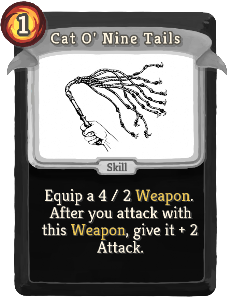
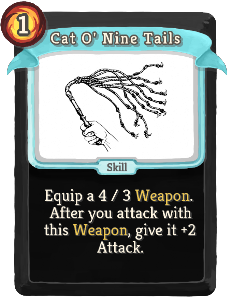
v.1.5.7 - Slight Weapon changes.

Changed region(s): [[0.0303, 0.0906, 1.0, 0.604], [0.1818, 0.7248, 0.8788, 0.8154], [0.5152, 0.6342, 0.8182, 0.6946]]

diff --git a/exported/index.html b/exported/index.html
@@ -73,18 +73,6 @@
     </tr>
 
     <tr>
-        <td>Cat O' Nine Tails</td>
-        <td><a href="card-images/CatONineTails.png"><img src="small-card-images/CatONineTails.png" height="298"></a>
-        </td>
-        <td><a href="card-images/CatONineTailsPlus.png"><img src="small-card-images/CatONineTailsPlus.png" height="298"></a>
-        </td>
-        <td>Common</td>
-        <td>Skill</td>
-        <td>1</td>
-        <td>Equip a 4 / 2(3) Weapon. After you attack with this Weapon, give it + 2 Attack.</td>
-    </tr>
-
-    <tr>
         <td>Cloak And Cannonball</td>
         <td><a href="card-images/CloakAndCannonball.png"><img src="small-card-images/CloakAndCannonball.png"
                                                               height="298"></a></td>
@@ -241,7 +229,7 @@
         <td>Skill</td>
         <td>1</td>
         <td>Choose 1 of 3 Swords.
-            Equip a 2(3) / 3 Weapon with an additional effect.
+            Equip a 2(3) / 4 Weapon with an additional effect.
         </td>
     </tr>
 
@@ -407,6 +395,18 @@
         <td>Gain 10(12) Block.
             Add 1(2) Cannonball(s) to your hand.
         </td>
+    </tr>
+
+    <tr>
+        <td>Cat O' Nine Tails</td>
+        <td><a href="card-images/CatONineTails.png"><img src="small-card-images/CatONineTails.png" height="298"></a>
+        </td>
+        <td><a href="card-images/CatONineTailsPlus.png"><img src="small-card-images/CatONineTailsPlus.png" height="298"></a>
+        </td>
+        <td>Uncommon</td>
+        <td>Skill</td>
+        <td>1</td>
+        <td>Equip a 4(6) / 3 Weapon. After you attack with this Weapon, give it +2 Attack.</td>
     </tr>
 
     <tr>

diff --git a/exported/cards.html b/exported/cards.html
@@ -72,18 +72,6 @@
   </tr>
 
     <tr>
-    <td>Cat O' Nine Tails</td>
-        <td><a href="card-images/CatONineTails.png"><img src="small-card-images/CatONineTails.png" height="298"></a>
-        </td>
-        <td><a href="card-images/CatONineTailsPlus.png"><img src="small-card-images/CatONineTailsPlus.png" height="298"></a>
-        </td>
-    <td>Common</td>
-    <td>Skill</td>
-    <td>1</td>
-    <td>Equip a 4 / 2(3) Weapon. After you attack with this Weapon, give it + 2 Attack.</td>
-  </tr>
-
-    <tr>
     <td>Cloak And Cannonball</td>
         <td><a href="card-images/CloakAndCannonball.png"><img src="small-card-images/CloakAndCannonball.png"
                                                               height="298"></a></td>
@@ -240,7 +228,7 @@
     <td>Skill</td>
     <td>1</td>
     <td>Choose 1 of 3 Swords.
-        Equip a 2(3) / 3 Weapon with an additional effect.
+        Equip a 2(3) / 4 Weapon with an additional effect.
     </td>
   </tr>
 
@@ -406,6 +394,18 @@
     <td>Gain 10(12) Block.
         Add 1(2) Cannonball(s) to your hand.
     </td>
+    </tr>
+
+    <tr>
+        <td>Cat O' Nine Tails</td>
+        <td><a href="card-images/CatONineTails.png"><img src="small-card-images/CatONineTails.png" height="298"></a>
+        </td>
+        <td><a href="card-images/CatONineTailsPlus.png"><img src="small-card-images/CatONineTailsPlus.png" height="298"></a>
+        </td>
+        <td>Uncommon</td>
+        <td>Skill</td>
+        <td>1</td>
+        <td>Equip a 4(6) / 3 Weapon. After you attack with this Weapon, give it +2 Attack.</td>
   </tr>
 
     <tr>

diff --git a/src/main/java/blackbeard/cards/CatONineTails.java b/src/main/java/blackbeard/cards/CatONineTails.java
@@ -18,28 +18,28 @@ public class CatONineTails extends CustomCard {
     private static final CardStrings cardStrings = CardCrawlGame.languagePack.getCardStrings(ID);
     private static final int COST = 1;
     private static final int WEAPON_ATTACK = 4;
-    private static final int WEAPON_DURABILITY = 2;
-    private static final int UPGRADED_PLUS_WEAPON_DURABILITY = 1;
+    private static final int WEAPON_DURABILITY = 3;
+    private static final int UPGRADED_PLUS_WEAPON_ATTACK = 2;
     public static final String NAME = cardStrings.NAME;
     public static final String DESCRIPTION = WeaponCardsUtil.getWeaponRawDescription(cardStrings.DESCRIPTION, WEAPON_ATTACK, WEAPON_DURABILITY);
 
     public CatONineTails() {
         super(ID, NAME, TheBlackbeardMod.getCardImagePath(CatONineTails.ID), COST, DESCRIPTION, CardType.SKILL,
-                AbstractCardEnum.BLACKBEARD_BLACK, CardRarity.COMMON, CardTarget.SELF);
+                AbstractCardEnum.BLACKBEARD_BLACK, CardRarity.UNCOMMON, CardTarget.SELF);
 
-        this.baseMagicNumber = this.magicNumber = WEAPON_DURABILITY;
+        this.baseMagicNumber = this.magicNumber = WEAPON_ATTACK;
     }
 
     @Override
     public void use(AbstractPlayer p, AbstractMonster m) {
-        AbstractDungeon.actionManager.addToBottom(new EquipAction(new CatONineTailsOrb(WEAPON_ATTACK, this.magicNumber, false)));
+        AbstractDungeon.actionManager.addToBottom(new EquipAction(new CatONineTailsOrb(this.magicNumber, WEAPON_DURABILITY, false)));
     }
 
     @Override
     public void upgrade() {
         if (!this.upgraded) {
             this.upgradeName();
-            this.upgradeMagicNumber(UPGRADED_PLUS_WEAPON_DURABILITY);
+            this.upgradeMagicNumber(UPGRADED_PLUS_WEAPON_ATTACK);
         }
     }
 }

diff --git a/src/main/java/blackbeard/cards/SwordOfWisdom.java b/src/main/java/blackbeard/cards/SwordOfWisdom.java
@@ -18,7 +18,7 @@ public class SwordOfWisdom extends CustomCard {
     private static final CardStrings cardStrings = CardCrawlGame.languagePack.getCardStrings(ID);
     private static final int COST = 0;
     private static final int WEAPON_ATTACK = 2;
-    private static final int WEAPON_DURABILITY = 3;
+    private static final int WEAPON_DURABILITY = 4;
     private static final int UPGRADED_PLUS_WEAPON_ATTACK = 1;
     public static final String NAME = cardStrings.NAME;
     public static final String DESCRIPTION = WeaponCardsUtil.getWeaponRawDescription(cardStrings.DESCRIPTION, WEAPON_ATTACK, WEAPON_DURABILITY);

diff --git a/src/main/java/blackbeard/cards/SwordOfChaos.java b/src/main/java/blackbeard/cards/SwordOfChaos.java
@@ -18,7 +18,7 @@ public class SwordOfChaos extends CustomCard {
     private static final CardStrings cardStrings = CardCrawlGame.languagePack.getCardStrings(ID);
     private static final int COST = 0;
     private static final int WEAPON_ATTACK = 2;
-    private static final int WEAPON_DURABILITY = 3;
+    private static final int WEAPON_DURABILITY = 4;
     private static final int UPGRADED_PLUS_WEAPON_ATTACK = 1;
     public static final String NAME = cardStrings.NAME;
     public static final String DESCRIPTION = WeaponCardsUtil.getWeaponRawDescription(cardStrings.DESCRIPTION, WEAPON_ATTACK, WEAPON_DURABILITY);

diff --git a/src/main/java/blackbeard/cards/SwordOfFire.java b/src/main/java/blackbeard/cards/SwordOfFire.java
@@ -18,7 +18,7 @@ public class SwordOfFire extends CustomCard {
     private static final CardStrings cardStrings = CardCrawlGame.languagePack.getCardStrings(ID);
     private static final int COST = 0;
     private static final int WEAPON_ATTACK = 2;
-    private static final int WEAPON_DURABILITY = 3;
+    private static final int WEAPON_DURABILITY = 4;
     private static final int UPGRADED_PLUS_WEAPON_ATTACK = 1;
     public static final String NAME = cardStrings.NAME;
     public static final String DESCRIPTION = WeaponCardsUtil.getWeaponRawDescription(cardStrings.DESCRIPTION, WEAPON_ATTACK, WEAPON_DURABILITY);

diff --git a/src/main/java/blackbeard/cards/Sword.java b/src/main/java/blackbeard/cards/Sword.java
@@ -22,7 +22,7 @@ public class Sword extends CustomCard {
     private static final CardStrings cardStrings = CardCrawlGame.languagePack.getCardStrings(ID);
     private static final int COST = 1;
     private static final int WEAPON_ATTACK = 2;
-    private static final int WEAPON_DURABILITY = 3;
+    private static final int WEAPON_DURABILITY = 4;
     private static final int UPGRADED_PLUS_WEAPON_ATTACK = 1;
     public static final String NAME = cardStrings.NAME;
     public static final String DESCRIPTION = WeaponCardsUtil.getWeaponRawDescription(cardStrings.DESCRIPTION, WEAPON_ATTACK, WEAPON_DURABILITY);

diff --git a/exported/cards.md b/exported/cards.md
@@ -5,7 +5,6 @@
 | Strike | ![](small-card-images/Strike.png) | ![](small-card-images/StrikePlus.png) | Basic | Attack | 1 | Deal 6(9) damage. |
 | Beat Up | ![](small-card-images/BeatUp.png) | ![](small-card-images/BeatUpPlus.png) | Common | Attack | 1 | Deal 4(5) damage twice. Apply 1(2) Vulnerable. |
 | Blind Attacks | ![](small-card-images/BlindAttacks.png) | ![](small-card-images/BlindAttacksPlus.png) | Common | Attack | 1 | Deal 3(4) damage to a random enemy 3 times. |
-| Cat O' Nine Tails | ![](small-card-images/CatONineTails.png) | ![](small-card-images/CatONineTailsPlus.png) | Common | Skill | 1 | Equip a 4 / 2(3) Weapon. After you attack with this Weapon, give it + 2 Attack. |
 | Cloak And Cannonball | ![](small-card-images/CloakAndCannonball.png) | ![](small-card-images/CloakAndCannonballPlus.png) | Common | Skill | 1 | Gain 4(7) Block.  Add a Cannonball to your hand. |
 | Dagger | ![](small-card-images/Dagger.png) | ![](small-card-images/DaggerPlus.png) | Common | Skill | 0 | Equip a 2 / 3(4) Weapon. At the start of your turn, 1 Durability from Dagger is used to deal damage equal to its Attack to a random enemy. |
 | Delayed Pain | ![](small-card-images/DelayedPain.png) | ![](small-card-images/DelayedPainPlus.png) | Common | Skill | 1 | Gain 14(18) Block. At the end of your next turn, you take 4 damage. |
@@ -18,7 +17,7 @@
 | Sharpening | ![](small-card-images/Sharpening.png) | ![](small-card-images/SharpeningPlus.png) | Common | Skill | 1 | Give all your equipped Weapons + 2(3) attack. |
 | Shrapnel | ![](small-card-images/Shrapnel.png) | ![](small-card-images/ShrapnelPlus.png) | Common | Attack | 1 | Deal 7(10) damage to ALL enemies. |
 | Spear | ![](small-card-images/Spear.png) | ![](small-card-images/SpearPlus.png) | Common | Skill | 0 | Equip a 7(10) / 1 Weapon. |
-| Sword | ![](small-card-images/Sword.png) | ![](small-card-images/SwordPlus.png) | Common | Skill | 1 | Choose 1 of 3 Swords. Equip a 2(3) / 3 Weapon with an additional effect. |
+| Sword | ![](small-card-images/Sword.png) | ![](small-card-images/SwordPlus.png) | Common | Skill | 1 | Choose 1 of 3 Swords. Equip a 2(3) / 4 Weapon with an additional effect. |
 | Sword Dance | ![](small-card-images/SwordDance.png) | ![](small-card-images/SwordDancePlus.png) | Common | Skill | 1 | This turn, your next 2(3) Attacks use all equipped Weapons. |
 | Tactical Retreat | ![](small-card-images/TacticalRetreat.png) | ![](small-card-images/TacticalRetreatPlus.png) | Common | Skill | 1 | Gain 8(11) Block. Draw 1 more card next turn. |
 | Toast | ![](small-card-images/Toast.png) | ![](small-card-images/ToastPlus.png) | Common | Skill | 0 | Gain 3(4) Resistance. At the start of your next turn, lose 3(4) Resistance. Exhaust. |
@@ -32,6 +31,7 @@
 | Cannon Barrage | ![](small-card-images/CannonBarrage.png) | ![](small-card-images/CannonBarragePlus.png) | Uncommon | Skill | X | Add X (X+1) Cannonballs to your hand. |
 | Cannonball Supply | ![](small-card-images/CannonballSupply.png) | ![](small-card-images/CannonballSupplyPlus.png) | Uncommon | Skill | 2 | Add 3 Cannonballs to your hand. Exhaust. (not Exhaust.) |
 | Captain's Cabin | ![](small-card-images/CaptainsCabin.png) | ![](small-card-images/CaptainsCabinPlus.png) | Uncommon | Skill | 2 | Gain 10(12) Block. Add 1(2) Cannonball(s) to your hand. |
+| Cat O' Nine Tails | ![](small-card-images/CatONineTails.png) | ![](small-card-images/CatONineTailsPlus.png) | Uncommon | Skill | 1 | Equip a 4(6) / 3 Weapon. After you attack with this Weapon, give it +2 Attack. |
 | Chaotic Defend | ![](small-card-images/ChaoticDefend.png) | ![](small-card-images/ChaoticDefendPlus.png) | Uncommon | Skill | 1 | Gain 7(9) Block. Add 1(2) random card(s) to your hand. |
 | Dangerous Blow | ![](small-card-images/DangerousBlow.png) | ![](small-card-images/DangerousBlowPlus.png) | Uncommon | Attack | 1 | Deal 18(22) damage. At the end of your next turn, you take 6 damage. |
 | Double Bottom | ![](small-card-images/DoubleBottom.png) | ![](small-card-images/DoubleBottomPlus.png) | Uncommon | Skill | 2 | Gain 10(13) Block. Next turn gain 10(13) Block. |

diff --git a/exported/index.md b/exported/index.md
@@ -8,7 +8,6 @@
 | Strike | ![](small-card-images/Strike.png) | ![](small-card-images/StrikePlus.png) | Basic | Attack | 1 | Deal 6(9) damage. |
 | Beat Up | ![](small-card-images/BeatUp.png) | ![](small-card-images/BeatUpPlus.png) | Common | Attack | 1 | Deal 4(5) damage twice. Apply 1(2) Vulnerable. |
 | Blind Attacks | ![](small-card-images/BlindAttacks.png) | ![](small-card-images/BlindAttacksPlus.png) | Common | Attack | 1 | Deal 3(4) damage to a random enemy 3 times. |
-| Cat O' Nine Tails | ![](small-card-images/CatONineTails.png) | ![](small-card-images/CatONineTailsPlus.png) | Common | Skill | 1 | Equip a 4 / 2(3) Weapon. After you attack with this Weapon, give it + 2 Attack. |
 | Cloak And Cannonball | ![](small-card-images/CloakAndCannonball.png) | ![](small-card-images/CloakAndCannonballPlus.png) | Common | Skill | 1 | Gain 4(7) Block.  Add a Cannonball to your hand. |
 | Dagger | ![](small-card-images/Dagger.png) | ![](small-card-images/DaggerPlus.png) | Common | Skill | 0 | Equip a 2 / 3(4) Weapon. At the start of your turn, 1 Durability from Dagger is used to deal damage equal to its Attack to a random enemy. |
 | Delayed Pain | ![](small-card-images/DelayedPain.png) | ![](small-card-images/DelayedPainPlus.png) | Common | Skill | 1 | Gain 14(18) Block. At the end of your next turn, you take 4 damage. |
@@ -21,7 +20,7 @@
 | Sharpening | ![](small-card-images/Sharpening.png) | ![](small-card-images/SharpeningPlus.png) | Common | Skill | 1 | Give all your equipped Weapons + 2(3) attack. |
 | Shrapnel | ![](small-card-images/Shrapnel.png) | ![](small-card-images/ShrapnelPlus.png) | Common | Attack | 1 | Deal 7(10) damage to ALL enemies. |
 | Spear | ![](small-card-images/Spear.png) | ![](small-card-images/SpearPlus.png) | Common | Skill | 0 | Equip a 7(10) / 1 Weapon. |
-| Sword | ![](small-card-images/Sword.png) | ![](small-card-images/SwordPlus.png) | Common | Skill | 1 | Choose 1 of 3 Swords. Equip a 2(3) / 3 Weapon with an additional effect. |
+| Sword | ![](small-card-images/Sword.png) | ![](small-card-images/SwordPlus.png) | Common | Skill | 1 | Choose 1 of 3 Swords. Equip a 2(3) / 4 Weapon with an additional effect. |
 | Sword Dance | ![](small-card-images/SwordDance.png) | ![](small-card-images/SwordDancePlus.png) | Common | Skill | 1 | This turn, your next 2(3) Attacks use all equipped Weapons. |
 | Tactical Retreat | ![](small-card-images/TacticalRetreat.png) | ![](small-card-images/TacticalRetreatPlus.png) | Common | Skill | 1 | Gain 8(11) Block. Draw 1 more card next turn. |
 | Toast | ![](small-card-images/Toast.png) | ![](small-card-images/ToastPlus.png) | Common | Skill | 0 | Gain 3(4) Resistance. At the start of your next turn, lose 3(4) Resistance. Exhaust. |
@@ -35,6 +34,7 @@
 | Cannon Barrage | ![](small-card-images/CannonBarrage.png) | ![](small-card-images/CannonBarragePlus.png) | Uncommon | Skill | X | Add X (X+1) Cannonballs to your hand. |
 | Cannonball Supply | ![](small-card-images/CannonballSupply.png) | ![](small-card-images/CannonballSupplyPlus.png) | Uncommon | Skill | 2 | Add 3 Cannonballs to your hand. Exhaust. (not Exhaust.) |
 | Captain's Cabin | ![](small-card-images/CaptainsCabin.png) | ![](small-card-images/CaptainsCabinPlus.png) | Uncommon | Skill | 2 | Gain 10(12) Block. Add 1(2) Cannonball(s) to your hand. |
+| Cat O' Nine Tails | ![](small-card-images/CatONineTails.png) | ![](small-card-images/CatONineTailsPlus.png) | Uncommon | Skill | 1 | Equip a 4(6) / 3 Weapon. After you attack with this Weapon, give it +2 Attack. |
 | Chaotic Defend | ![](small-card-images/ChaoticDefend.png) | ![](small-card-images/ChaoticDefendPlus.png) | Uncommon | Skill | 1 | Gain 7(9) Block. Add 1(2) random card(s) to your hand. |
 | Dangerous Blow | ![](small-card-images/DangerousBlow.png) | ![](small-card-images/DangerousBlowPlus.png) | Uncommon | Attack | 1 | Deal 18(22) damage. At the end of your next turn, you take 6 damage. |
 | Double Bottom | ![](small-card-images/DoubleBottom.png) | ![](small-card-images/DoubleBottomPlus.png) | Uncommon | Skill | 2 | Gain 10(13) Block. Next turn gain 10(13) Block. |
